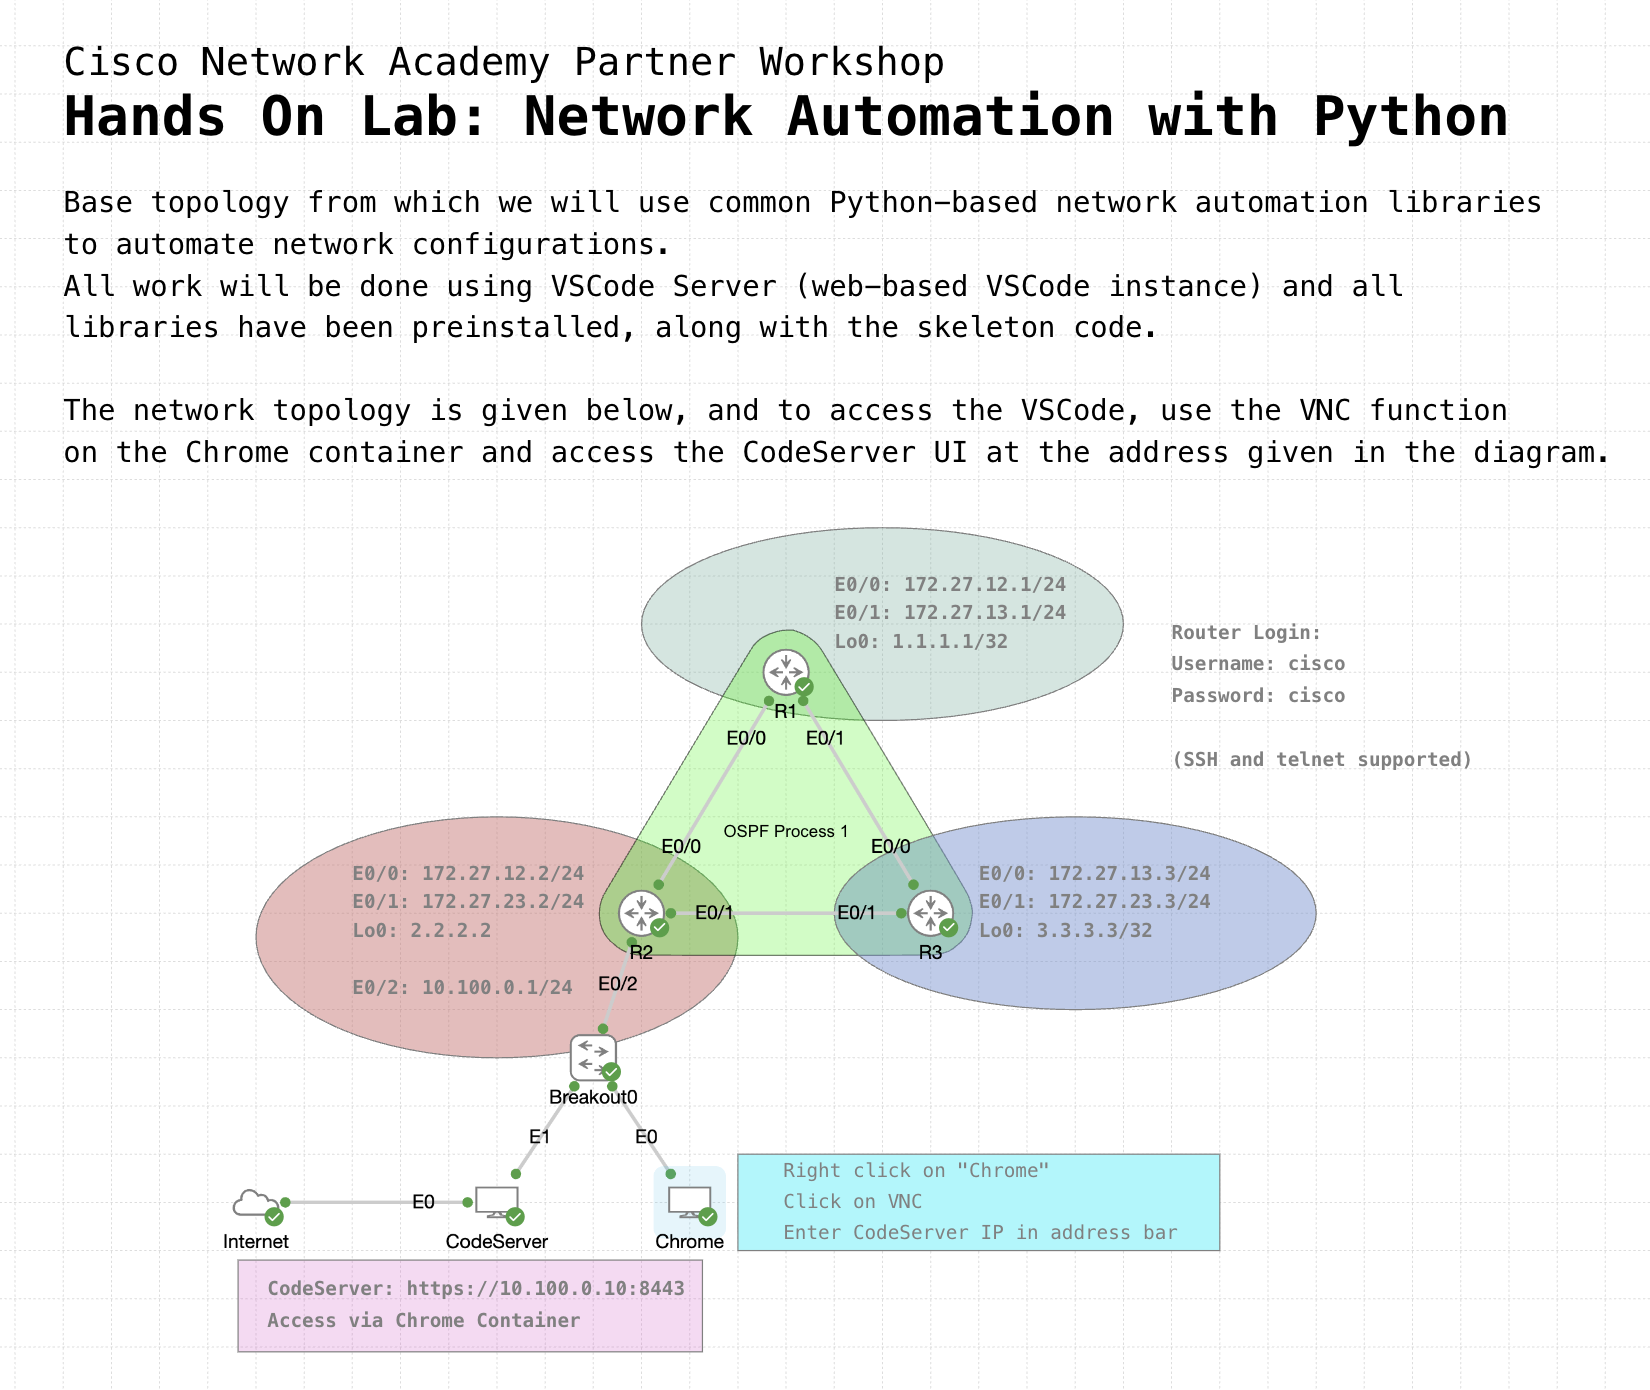
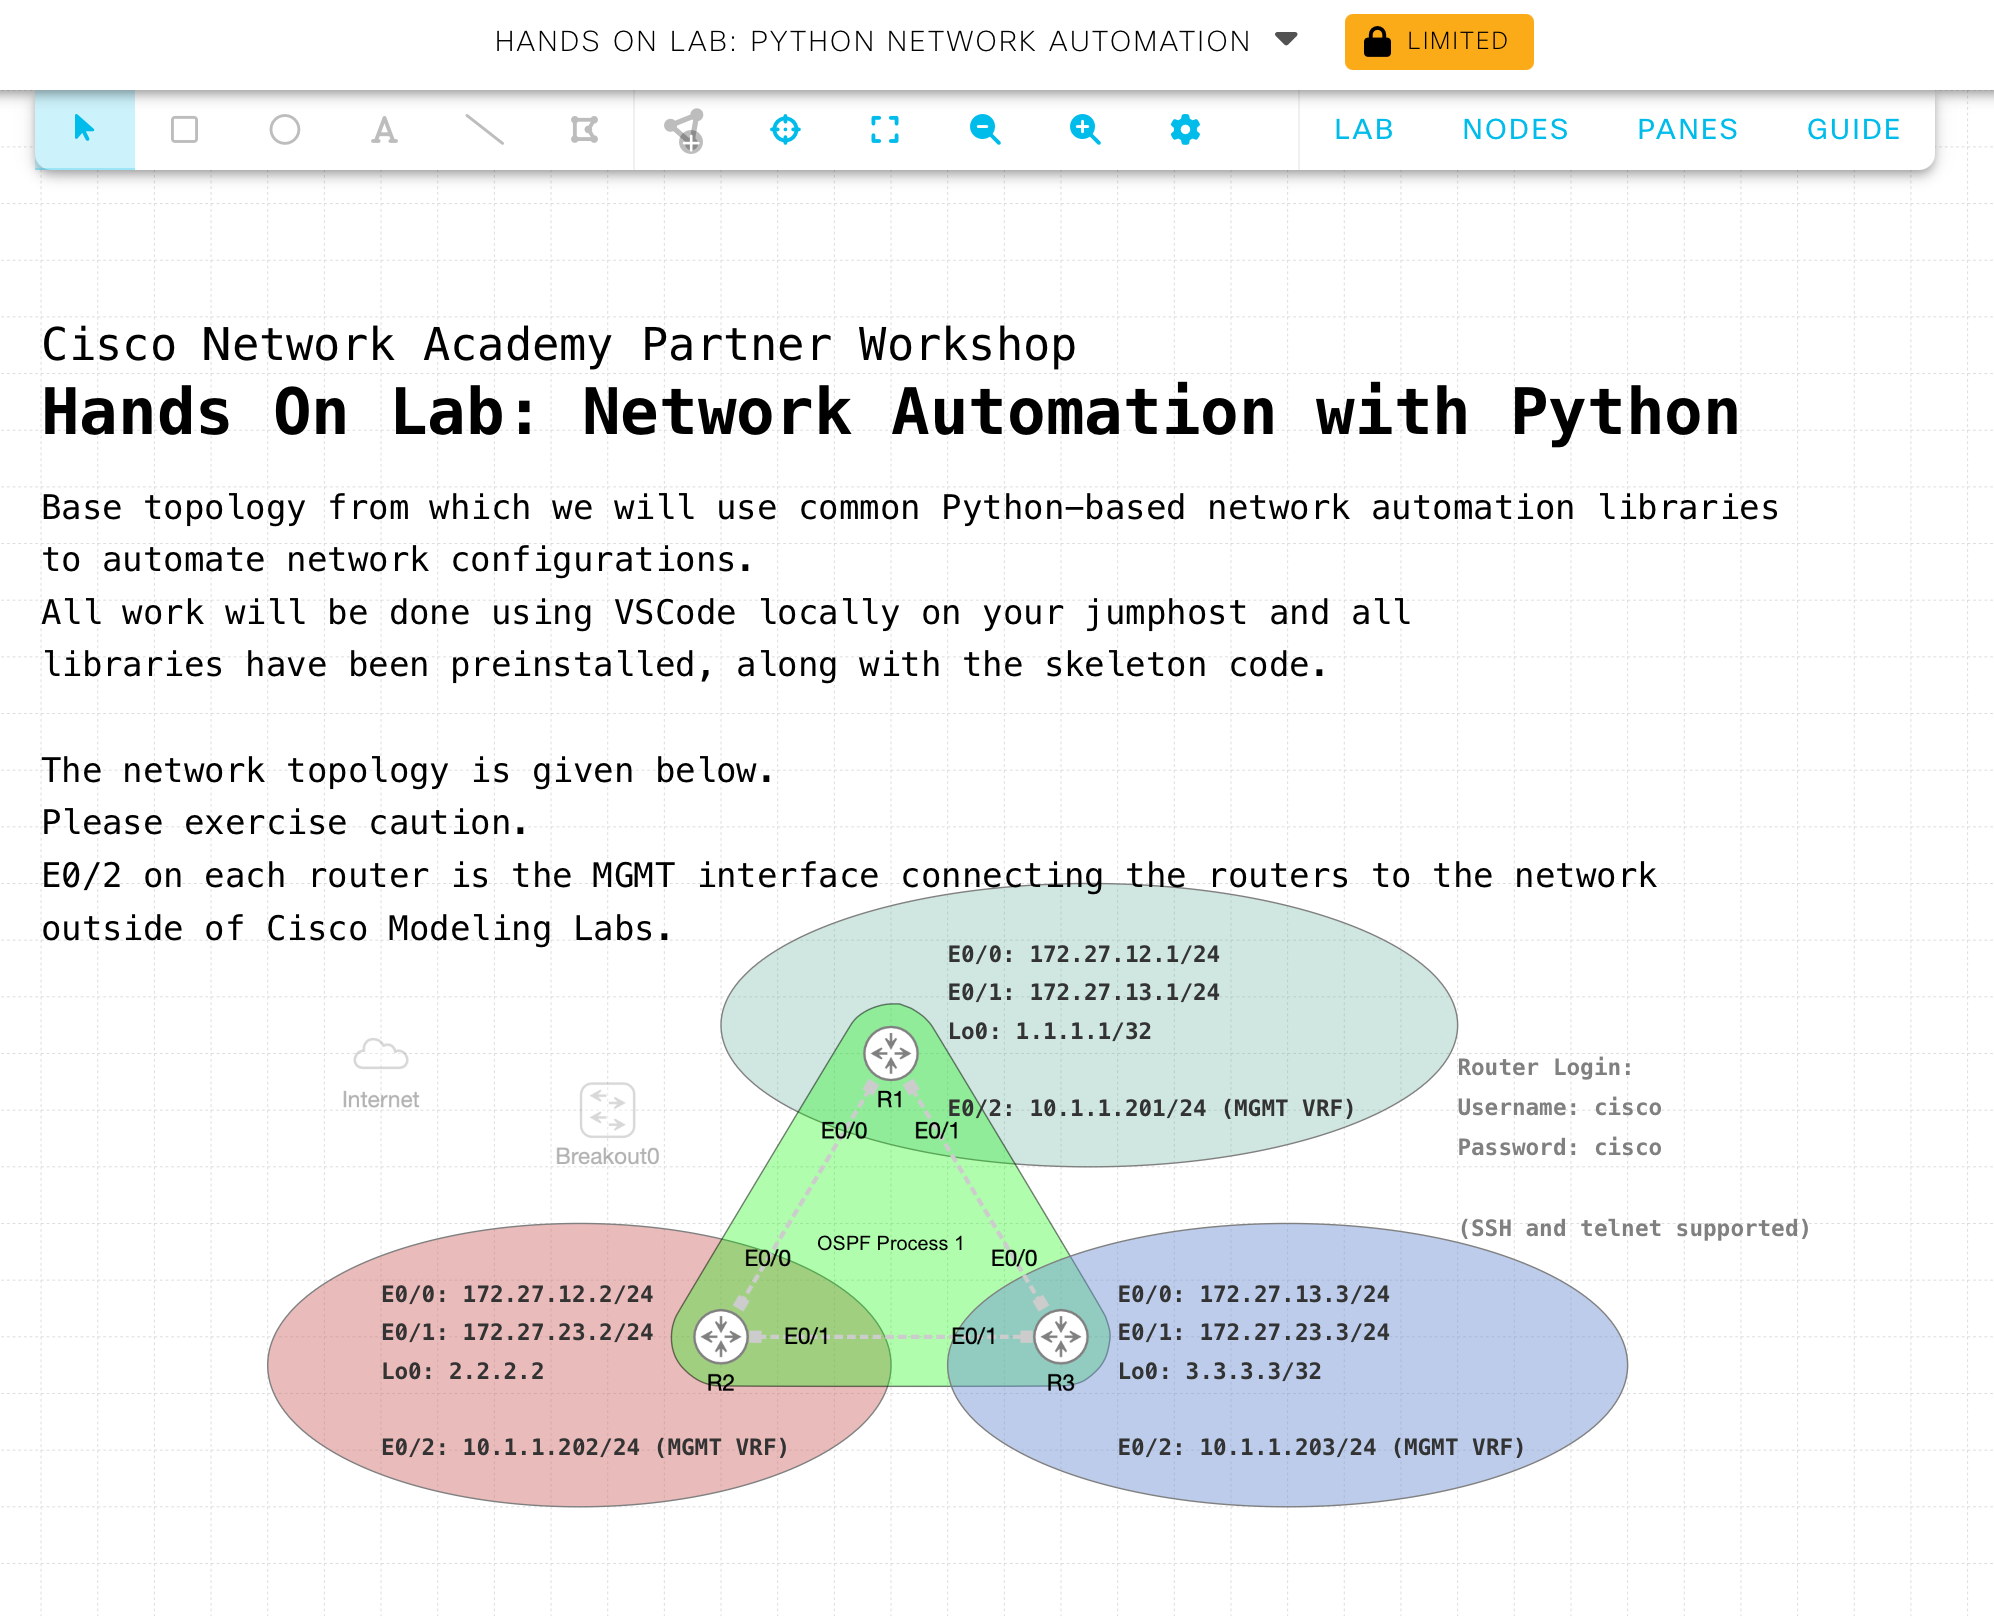
in-person edits

diff --git a/day2/08-hands-on-netmiko-automation/1.md b/day2/08-hands-on-netmiko-automation/1.md
@@ -38,17 +38,17 @@ This topology will serve as the network that you'll be automating against.  All 
 
 ### Step 0: Access the Cisco Modeling Labs Code Server
 
-> Note: This step is the same as the previous Python lab.  If you are familiar with how to access the CodeServer environment, you can skip this step.
+> Note: This step is the same as the previous Python lab.  If you are familiar with how to navigate and use VSCode, you can skip this step.
 
 > Note: if at any time you are unsure of the solution to the code that you're asked to complete below, you can reference the `solutions` directory under `code/solutions`.
 
-1. Open a web browser and navigate to the URL of your CML server.  Log in with your credentials (these will be provided by your instructor).
+1. Open a web browser and navigate to the URL of your Ubuntu jumphost.  Open the Chrome web browser and click on the "CML Server" bookmark in the bookmark bar.  Log in with your credentials (these will be provided by your instructor).
 
 2. Locate the topology named `Hands On Lab: Python Network Automation` , click on it, click on the "Lab" menu at the top of the window, and select "Start Lab".
 
     ![Starting CML Topology](./images/step1.gif)
 
-3. Once the topology is running, let it stay in the 'started' state for a few minutes.  This ensures that the development environment is fully initialized with the code and required packages.
+3. Verify that the topology is entirely in the "running" state, indicated by the green check marks at the corner of each device.
 
 4. Access the CodeServer web-based IDE by right-clicking on the Chrome container in the topology and selecting `Vnc`.  This will pop up a frame in the bottom of the window.  Click on `Open VNC`, and you should see a Chrome browser window open within the VNC frame.
 
@@ -115,7 +115,9 @@ This topology will serve as the network that you'll be automating against.  All 
     cisco
     ```
 
-    *Exporting credentials as environmental variables is more secure than hardcoding your credentials into a script—which you should really **never** do. Ideally, you want to use a password manager or vault to store and serve credentials.*
+    >Note: Exporting credentials as environmental variables is more secure than hardcoding your credentials into a script—which you should really **never** do. Ideally, you want to use a password manager or vault to store and serve credentials.*
+
+    >Note: Ensure that you *do not* enter a space after the username and password `export` statement.  That extra whitespace will be interpreted as a character and will cause device authentication to fail!
 
 ## Step 2: Your First Netmiko Connection
 
